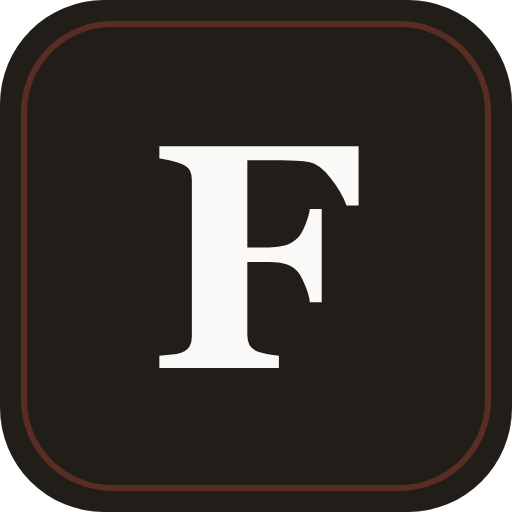
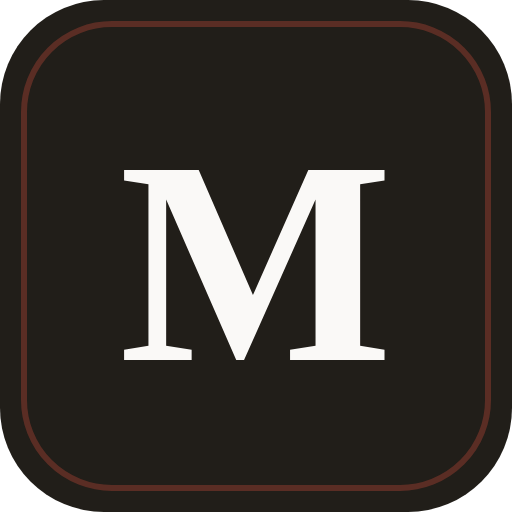
Rename the app to Mull Reader
New name, same reader: to mull is to turn something over slowly in
your mind, which is the whole point. Renames the title, PWA manifest
(short name: Mull), welcome screen, OG/Twitter tags, and README, and
regenerates the full icon set - SVGs, PNGs, favicon.ico, apple-touch
icon, and the og-image social card - around an M monogram.

OG URLs now point at ramanvir.github.io/mull in anticipation of the
repository rename. localStorage keys and the IndexedDB name keep
their original folio-* values so existing users' preferences and
saved folder handles survive. Service worker cache restarts at
mull-v1.

Claude-Session: https://claude.ai/code/session_018CTHJXbZn3YTxRY57wK33J

Changed region(s): [[0.2188, 0.2812, 0.75, 0.7188]]

diff --git a/index.html b/index.html
@@ -3,26 +3,26 @@
 <head>
   <meta charset="utf-8">
   <meta name="viewport" content="width=device-width, initial-scale=1, viewport-fit=cover">
-  <title>Folio — Markdown Reader</title>
+  <title>Mull Reader — Markdown Reader</title>
   <meta name="description" content="A lightweight, open-source, mobile-friendly markdown reader to consume knowledge created by AI agents. All documents remain local — always.">
   <meta name="theme-color" content="#faf9f7" media="(prefers-color-scheme: light)">
   <meta name="theme-color" content="#1c1b1a" media="(prefers-color-scheme: dark)">
   <meta name="mobile-web-app-capable" content="yes">
   <meta name="apple-mobile-web-app-capable" content="yes">
   <meta name="apple-mobile-web-app-status-bar-style" content="black-translucent">
-  <meta name="apple-mobile-web-app-title" content="Folio">
+  <meta name="apple-mobile-web-app-title" content="Mull">
   <meta property="og:type" content="website">
-  <meta property="og:site_name" content="Folio">
-  <meta property="og:title" content="Folio — Markdown Reader">
+  <meta property="og:site_name" content="Mull Reader">
+  <meta property="og:title" content="Mull Reader — Markdown Reader">
   <meta property="og:description" content="A lightweight, open-source, mobile-friendly markdown reader to consume knowledge created by AI agents. All documents remain local — always.">
-  <meta property="og:url" content="https://ramanvir.github.io/folio/">
-  <meta property="og:image" content="https://ramanvir.github.io/folio/icons/og-image.png">
+  <meta property="og:url" content="https://ramanvir.github.io/mull/">
+  <meta property="og:image" content="https://ramanvir.github.io/mull/icons/og-image.png">
   <meta property="og:image:width" content="1200">
   <meta property="og:image:height" content="630">
   <meta name="twitter:card" content="summary_large_image">
-  <meta name="twitter:title" content="Folio — Markdown Reader">
+  <meta name="twitter:title" content="Mull Reader — Markdown Reader">
   <meta name="twitter:description" content="A lightweight, open-source, mobile-friendly markdown reader to consume knowledge created by AI agents. All documents remain local — always.">
-  <meta name="twitter:image" content="https://ramanvir.github.io/folio/icons/og-image.png">
+  <meta name="twitter:image" content="https://ramanvir.github.io/mull/icons/og-image.png">
   <link rel="manifest" href="./manifest.json">
   <link rel="icon" href="./favicon.ico" sizes="48x48">
   <link rel="icon" href="./icons/icon.svg" type="image/svg+xml">
@@ -87,8 +87,8 @@
     <main id="main" class="main">
       <section id="welcome" class="welcome">
         <div class="welcome-inner">
-          <div class="welcome-mark" aria-hidden="true">F</div>
-          <h1>Folio</h1>
+          <div class="welcome-mark" aria-hidden="true">M</div>
+          <h1>Mull Reader</h1>
           <p class="welcome-sub">A lightweight, open-source markdown reader to consume knowledge created by AI agents.<br>Mobile friendly — and all documents remain local, always.<br>A progressive web app: install it and it works offline.</p>
           <button id="welcome-open-btn" class="cta">Open a folder</button>
           <button id="welcome-open-file-btn" class="cta-secondary">…or open a single file</button>

diff --git a/js/app.js b/js/app.js
@@ -21,6 +21,8 @@ const els = {
   fileInput: $('#file-fallback-input'),
 };
 
+// Storage keys keep their original 'folio-' names (the app's former name)
+// so existing users' preferences survive the rename to Mull Reader.
 const LAST_FILE_KEY = 'folio-last-file';
 const THEME_KEY = 'folio-theme';
 const SIDEBAR_KEY = 'folio-sidebar';
@@ -268,7 +270,7 @@ function showWelcome(mode = 'default', dirName = '') {
   els.fileName.textContent = '';
   els.fileName.removeAttribute('title');
   updateProgress();
-  document.title = 'Folio — Markdown Reader';
+  document.title = 'Mull Reader — Markdown Reader';
   const inner = els.welcome.querySelector('.welcome-inner');
   const cta = inner.querySelector('.cta');
   const sub = inner.querySelector('.welcome-sub');
@@ -310,7 +312,7 @@ async function openNode(node, { keepScroll = false } = {}) {
 
   els.fileName.textContent = file.name;
   els.fileName.title = node.path || file.name;
-  document.title = `${file.name} — Folio`;
+  document.title = `${file.name} — Mull Reader`;
   highlightCurrentInTree();
   updateProgress();
 

diff --git a/js/fs.js b/js/fs.js
@@ -12,7 +12,7 @@ export function isMarkdownName(name) {
 
 // ---------- IndexedDB handle persistence ----------
 
-const DB_NAME = 'folio';
+const DB_NAME = 'folio'; // pre-rename name kept so saved folder handles survive
 const STORE = 'handles';
 
 function openDb() {

diff --git a/sw.js b/sw.js
@@ -1,6 +1,6 @@
-// Folio service worker — cache-first app shell for full offline use.
+// Mull Reader service worker — cache-first app shell for full offline use.
 
-const CACHE = 'folio-v18';
+const CACHE = 'mull-v1';
 
 const ASSETS = [
   './',

diff --git a/README.md b/README.md
@@ -1,14 +1,14 @@
-# Folio
+# Mull Reader
 
 A lightweight, open-source, mobile-friendly markdown reader — built to consume knowledge created by AI agents, and just as happy with notes you wrote yourself. Installable as a PWA, with book-like typography, no build step, and no frameworks.
 
-**Live:** https://ramanvir.github.io/folio/
+**Live:** https://ramanvir.github.io/mull/
 
 ## Why
 
 The challenge is no longer the availability of knowledge — AI agents produce it faster than anyone can keep up with. The challenge now is *understanding* it. And understanding cannot be outsourced: no agent can do the reading for you.
 
-AI agents share what they know in markdown files, and we read on whatever is at hand — a phone in a queue, a tablet on the couch, a desktop at work. Folio is a reading environment for exactly that: grab a markdown file from wherever it landed — iCloud, Google Drive, a repo, an agent's output folder — and open it in a reader designed for focus, on any device.
+AI agents share what they know in markdown files, and we read on whatever is at hand — a phone in a queue, a tablet on the couch, a desktop at work. Mull Reader is a reading environment for exactly that — a place to mull things over. Grab a markdown file from wherever it landed (iCloud, Google Drive, a repo, an agent's output folder) and open it in a reader designed for focus, on any device.
 
 **All documents remain local, always.** Files are read directly in your browser via the File System Access API; nothing is ever uploaded anywhere.
 
@@ -28,7 +28,7 @@ AI agents share what they know in markdown files, and we read on whatever is at 
 - **Live refresh** — the current file is re-read when the window regains focus, so external edits (say, from an agent still writing) show up
 - **Drag & drop** a `.md` file (or a whole folder) anywhere on the window
 - **Full offline support** — cache-first service worker that refreshes itself automatically when a new version deploys
-- **File handler** — when installed, double-clicking a `.md` file can open it directly in Folio (Chromium)
+- **File handler** — when installed, double-clicking a `.md` file can open it directly in Mull Reader (Chromium)
 - Keyboard: `⌘/Ctrl+O` open folder, `⇧⌘/Ctrl+O` open file, `⌘/Ctrl+B` toggle sidebar
 
 ## Browser support
